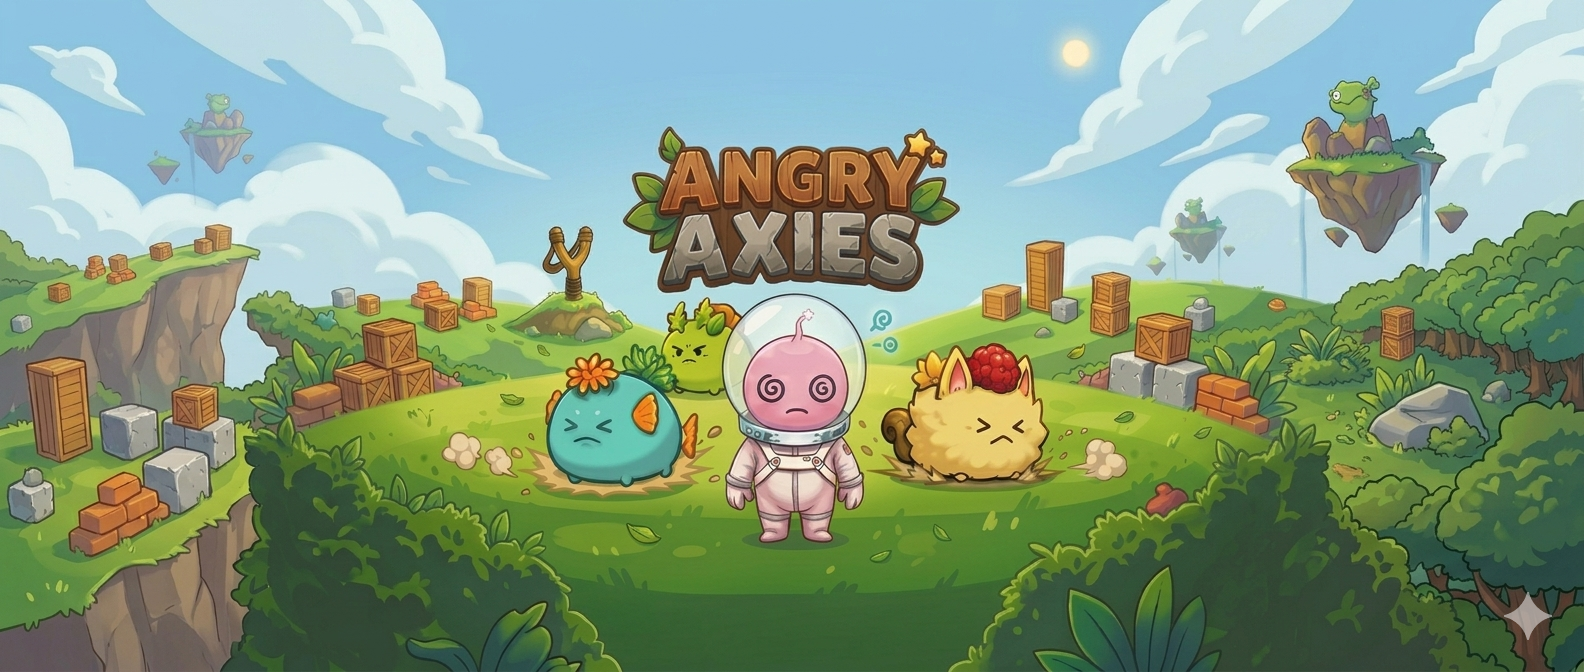
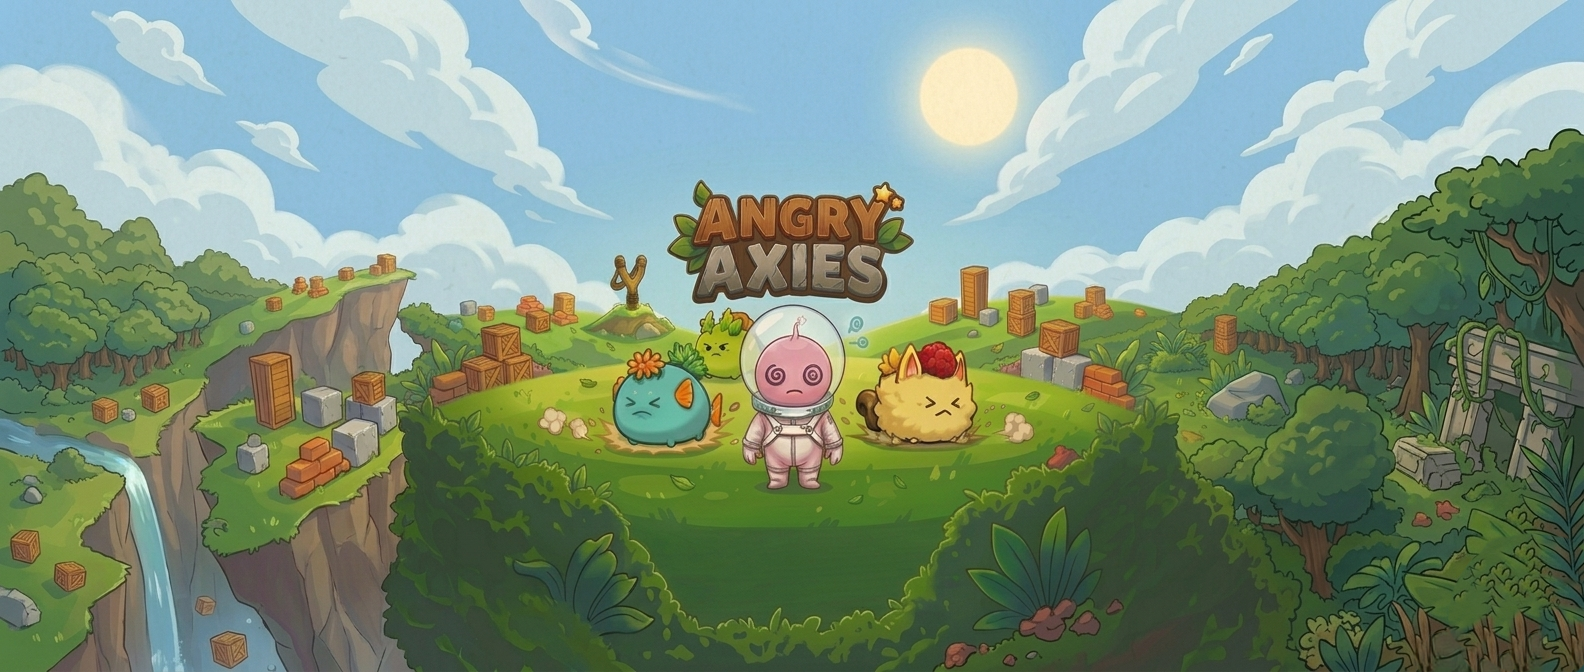
Reemplaza fondo del sitio por fondo de pantalla mejorado.

diff --git a/site.css b/site.css
@@ -13,10 +13,10 @@ body {
   font-family: "Segoe UI", system-ui, sans-serif;
   background-color: #6eb5e8;
   background-image:
-    linear-gradient(rgba(8, 12, 20, 0.18), rgba(8, 12, 20, 0.42)),
+    linear-gradient(rgba(8, 12, 20, 0.12), rgba(8, 12, 20, 0.32)),
     url("./images/fondo-github.png");
   background-size: cover;
-  background-position: center top;
+  background-position: center center;
   background-repeat: no-repeat;
   background-attachment: fixed;
   color: var(--text);
